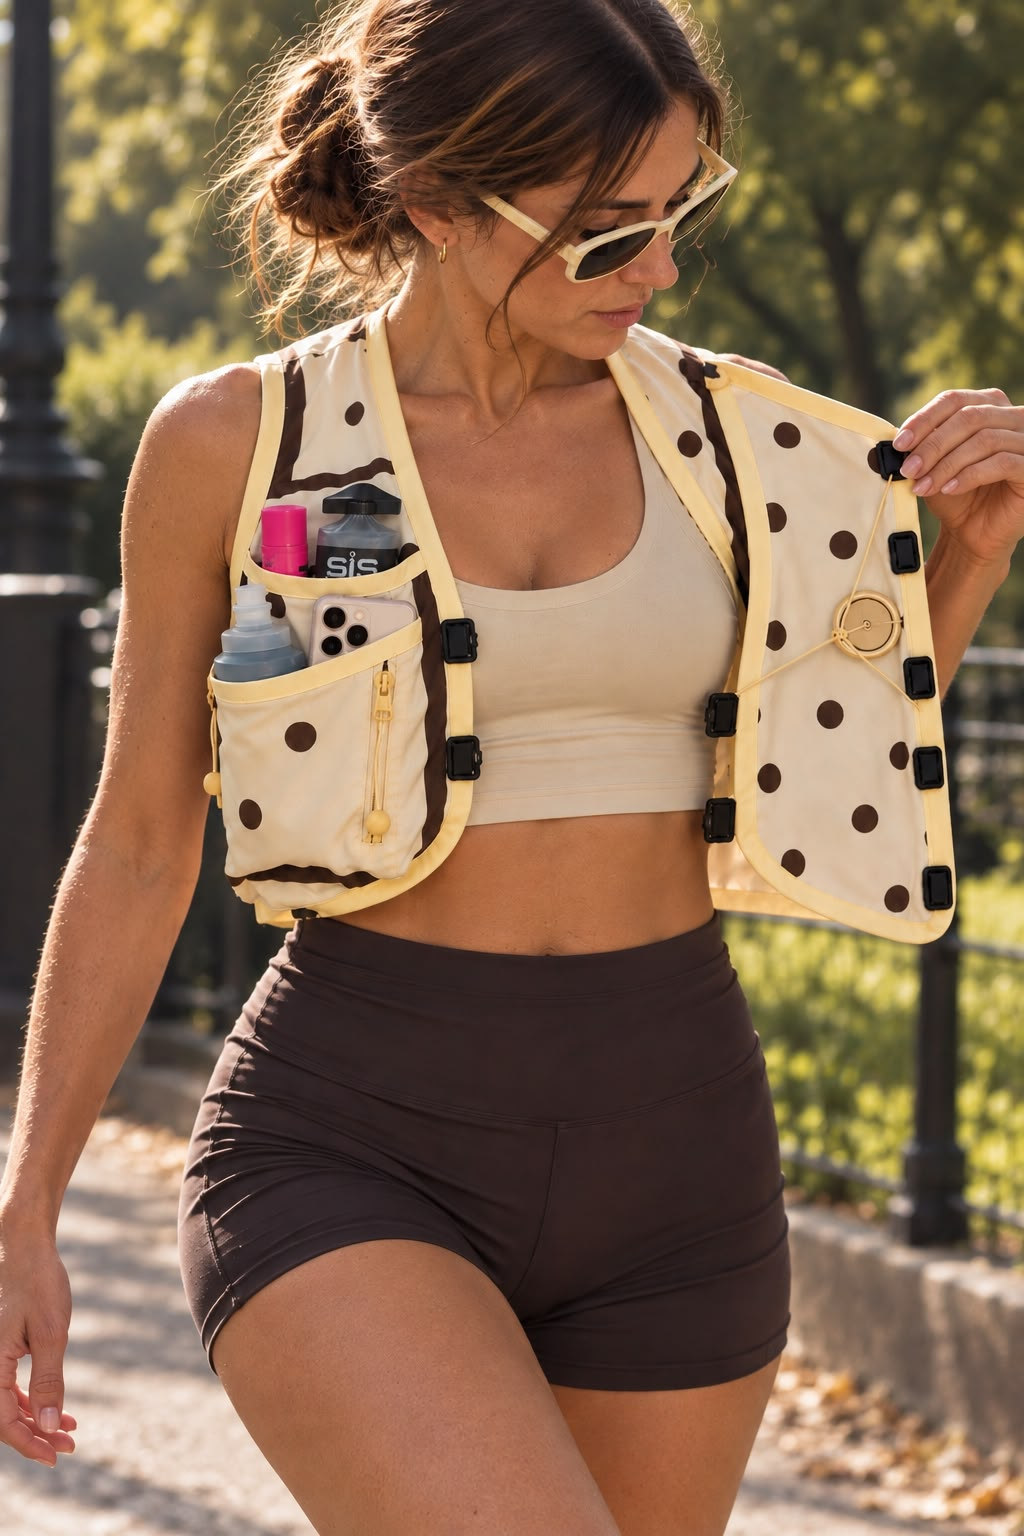
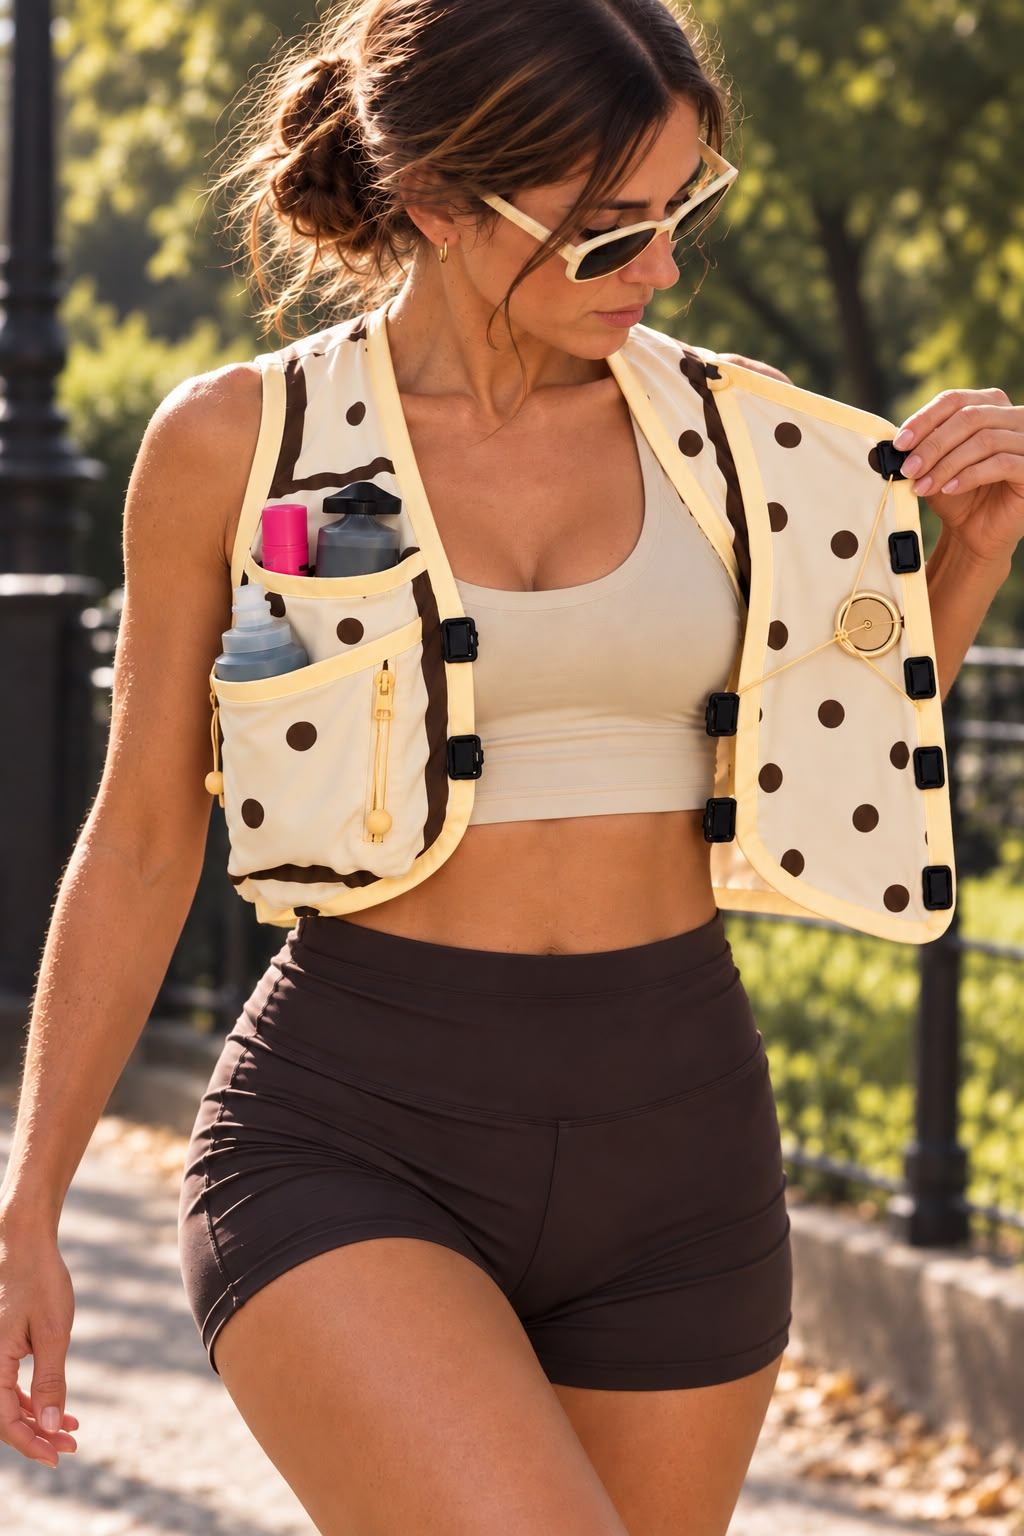
New biscotto photo set and mobile bug fixes
- Biscotto now shows 6 retouched photos: running, flat front, front held
  open, flat back, back worn, cafe. Flat studio shots are shown whole on a
  matching panel; the back shot keeps its callouts in frame.
- Fix the undo toast stretching across the whole phone screen: phone
  overrides now come last in the stylesheet so base rules can't win.
- Lock the vote to one screen via a class set by the script (no :has()),
  push the intro below the largest viewport so nothing peeks under the
  iOS floating toolbar, cap the card height on tablets.
- Clip horizontal overflow from off-screen animations; refresh scroll
  animations when the vote changes the page height.
- Don't count the card's first photo as an extra photo view.

diff --git a/src/styles/global.css b/src/styles/global.css
@@ -45,6 +45,8 @@ html[data-accent='cobalt'] {
 html {
   background: var(--tint);
   -webkit-text-size-adjust: 100%;
+  overflow-x: hidden;
+  overflow-x: clip;
 }
 
 body {
@@ -57,6 +59,7 @@ body {
   line-height: 1.45;
   -webkit-font-smoothing: antialiased;
   overflow-x: hidden;
+  overflow-x: clip;
 }
 
 img,
@@ -256,73 +259,6 @@ a {
   color: var(--ink-3);
 }
 
-/* Phones: the vote is exactly one screen. The card grows or shrinks to fit, the buttons sit
-   just above the browser's bottom bar, and the rest of the hero starts below the fold. */
-@media (max-width: 899px) {
-  .hero {
-    display: block;
-    padding-top: 0;
-  }
-  .hero__first {
-    display: flex;
-    flex-direction: column;
-  }
-  .hero__first:has([data-stage='deck']:not([hidden])) {
-    height: calc(100vh - var(--header-h));
-    height: calc(100svh - var(--header-h));
-    min-height: 480px;
-    padding: 4px 0 14px;
-  }
-  .hero__copy {
-    flex: 0 0 auto;
-    margin-bottom: 12px;
-  }
-  .kicker {
-    margin-bottom: 6px;
-  }
-  .hero__title {
-    max-width: none;
-    font-size: clamp(28px, 7.9vw, 46px);
-  }
-  .vote {
-    flex: 1 1 auto;
-    display: flex;
-    flex-direction: column;
-    min-height: 0;
-  }
-  .stage--deck {
-    flex: 1 1 auto;
-    display: flex;
-    flex-direction: column;
-    min-height: 0;
-  }
-  .deck {
-    flex: 1 1 auto;
-    min-height: 250px;
-  }
-  .deck::before {
-    display: none;
-  }
-  .deck-actions {
-    margin-top: 12px;
-  }
-  .deck-actions .btn {
-    height: 52px;
-  }
-  .hero__more {
-    margin-top: 40px;
-  }
-  .fav-pill {
-    height: 36px;
-    min-width: 56px;
-    padding: 0 12px;
-  }
-  .toast {
-    top: calc(var(--header-h) + 8px);
-    bottom: auto;
-  }
-}
-
 @media (min-width: 900px) {
   .hero__first {
     display: contents;
@@ -462,8 +398,14 @@ a {
 .card__img--lifestyle {
   object-position: 50% 40%;
 }
+/* The back shot has callouts on its right edge: keep them in frame on narrow cards. */
 .card__img--back {
-  object-position: 50% 55%;
+  object-position: 85% 50%;
+}
+/* Flat studio shots are shown whole, on a panel that matches their backdrop. */
+.card__img--flatfront,
+.card__img--flatback {
+  object-fit: contain;
 }
 .vest-sketch {
   width: 84%;
@@ -1574,6 +1516,87 @@ a {
   font-size: 22px;
   letter-spacing: -0.02em;
 }
+
+@media (min-width: 600px) and (max-width: 899px) {
+  .hero__copy {
+    text-align: center;
+  }
+}
+
+/* Phone overrides come last so they always win over the base rules above. */
+/* Phones: the vote is exactly one screen. The card grows or shrinks to fit, the buttons sit
+   just above the browser's bottom bar, and the rest of the hero starts below the fold. */
+@media (max-width: 899px) {
+  .hero {
+    display: block;
+    padding-top: 0;
+  }
+  .hero__first {
+    display: flex;
+    flex-direction: column;
+  }
+  .hero__first.is-voting {
+    height: calc(100vh - var(--header-h));
+    height: calc(100svh - var(--header-h));
+    min-height: 480px;
+    padding: 4px 0 14px;
+  }
+  .hero__copy {
+    flex: 0 0 auto;
+    margin-bottom: 12px;
+  }
+  .kicker {
+    margin-bottom: 6px;
+  }
+  .hero__title {
+    max-width: none;
+    font-size: clamp(28px, 7.9vw, 46px);
+  }
+  .vote {
+    flex: 1 1 auto;
+    display: flex;
+    flex-direction: column;
+    min-height: 0;
+  }
+  .stage--deck {
+    flex: 1 1 auto;
+    display: flex;
+    flex-direction: column;
+    justify-content: center;
+    min-height: 0;
+  }
+  .deck {
+    flex: 1 1 auto;
+    min-height: 250px;
+    max-height: 640px; /* tablets: don't stretch the card into a tall strip */
+  }
+  .deck::before {
+    display: none;
+  }
+  .deck-actions {
+    margin-top: 12px;
+  }
+  .deck-actions .btn {
+    height: 52px;
+  }
+  /* iOS Safari's floating toolbar shows the page underneath it: start the next block below
+     the largest viewport so nothing peeks in under the first screen. */
+  .hero__more {
+    margin-top: 40px;
+    margin-top: calc(100lvh - 100svh + 40px);
+  }
+  .fav-pill {
+    height: 36px;
+    min-width: 56px;
+    padding: 0 12px;
+  }
+  .toast {
+    top: calc(var(--header-h) + 8px);
+    bottom: auto;
+    max-width: calc(100vw - 32px);
+  }
+}
+
 
 @media (prefers-reduced-motion: reduce) {
   *,

diff --git a/src/data/designs.ts b/src/data/designs.ts
@@ -1,6 +1,8 @@
 import type { ImageMetadata } from 'astro';
 import biscottoOnbody from '../assets/designs/biscotto/onbody.jpg';
+import biscottoFlatFront from '../assets/designs/biscotto/flatfront.jpg';
 import biscottoDetail from '../assets/designs/biscotto/detail.jpg';
+import biscottoFlatBack from '../assets/designs/biscotto/flatback.jpg';
 import biscottoBack from '../assets/designs/biscotto/back.jpg';
 import biscottoLifestyle from '../assets/designs/biscotto/lifestyle.jpg';
 
@@ -18,9 +20,9 @@ export interface Sketch {
 export interface DesignImage {
   src: ImageMetadata;
   alt: string;
-  // Every design shows the same 4 shots in the same order, so no design wins on photography:
-  // on-body running front, open-front detail, back, lifestyle.
-  shot: 'onbody' | 'detail' | 'back' | 'lifestyle';
+  // Every design shows the same 6 shots in the same order, so no design wins on photography:
+  // running (front), flat front, front held open, flat back, back worn, café.
+  shot: 'onbody' | 'flatfront' | 'detail' | 'flatback' | 'back' | 'lifestyle';
 }
 
 export interface Design {
@@ -49,11 +51,13 @@ export const designs: Design[] = [
     swatch: '#EDD7BF',
     heart: '#4C2C1F',
     tint: '#F1E9DE',
-    panel: '#E4D6C4',
+    panel: '#D0BEAE', // matches the studio backdrop of the flat shots
     images: [
       { src: biscottoOnbody, alt: 'A runner in the park wearing the biscotto vest, pockets filled', shot: 'onbody' },
+      { src: biscottoFlatFront, alt: 'The biscotto vest laid flat, front view, pockets filled', shot: 'flatfront' },
       { src: biscottoDetail, alt: 'The biscotto vest held open to show the bungee lacing inside', shot: 'detail' },
-      { src: biscottoBack, alt: 'The back of the biscotto vest with the zipped pocket open', shot: 'back' },
+      { src: biscottoFlatBack, alt: 'The biscotto vest laid flat, back view with the zipped pocket', shot: 'flatback' },
+      { src: biscottoBack, alt: 'The back of the biscotto vest worn, with the zipped pocket open', shot: 'back' },
       { src: biscottoLifestyle, alt: 'The biscotto vest worn at a café table', shot: 'lifestyle' },
     ],
   },

diff --git a/src/scripts/app.ts b/src/scripts/app.ts
@@ -301,7 +301,8 @@ class VoteFlow {
     q('[data-shot-label]', card).textContent = String(next + 1);
     const slug = card.dataset.slug as string;
     const key = `${slug}:${next}`;
-    if (!this.shotsSeen.has(key)) {
+    // Photo 0 is the card face, already counted by card_view.
+    if (next > 0 && !this.shotsSeen.has(key)) {
       this.shotsSeen.add(key);
       track('image_view', { design: slug, shot: next });
     }
@@ -590,6 +591,9 @@ class VoteFlow {
 
   private showStage(name: string): void {
     for (const s of qa('[data-stage]', this.root)) s.hidden = s.dataset.stage !== name;
+    // Only the deck is locked to one screen on phones; the other stages size to their content.
+    document.querySelector('[data-first-screen]')?.classList.toggle('is-voting', name === 'deck');
+    window.dispatchEvent(new Event('cori:layout'));
     const stage = q(`[data-stage="${name}"]`, this.root);
     if (!reduceMotion()) gsap.from(stage, { y: 18, opacity: 0, duration: 0.45, ease: 'power3.out', clearProps: 'all' });
     stage.querySelector<HTMLElement>('.stage__title')?.focus({ preventScroll: true });

diff --git a/src/scripts/motion.ts b/src/scripts/motion.ts
@@ -145,6 +145,9 @@ function pack(): void {
 }
 
 export function initMotion(): void {
+  // Don't recalculate on every mobile address-bar resize; do recalculate when the vote changes the page height.
+  ScrollTrigger.config({ ignoreMobileResize: true });
+  addEventListener('cori:layout', () => requestAnimationFrame(() => ScrollTrigger.refresh()));
   route();
   document.querySelectorAll<SVGSVGElement>('[data-scene="deck"]').forEach(sceneDeck);
   document.querySelectorAll<SVGSVGElement>('[data-scene="bars"]').forEach(sceneBars);

diff --git a/src/config.ts b/src/config.ts
@@ -26,7 +26,7 @@ export const UK_SIZES_OUTSIDE = ['UK 4 or smaller', 'UK 22', 'UK 24', 'UK 26', '
 
 export const CATALOG = {
   // Bump whenever designs are added, removed or re-photographed; it tags every event.
-  version: '2026-10-14.2',
+  version: '2026-10-14.3',
   // Sketches are stand-ins for designs that don't exist yet. Turn this off before sharing the vote,
   // or pass ?preview=1 to see them anyway.
   showSketches: true,

diff --git a/README.md b/README.md
@@ -30,7 +30,7 @@ npm run build      # static site in dist/
 
 ## Adding a real design
 
-1. Put 4 photos in `src/assets/designs/<slug>/`, in this order: `onbody` (running, front), `detail` (front held open), `back`, `lifestyle` (café). Match the biscotto's angles and light, at least 2,000 px on the long edge.
+1. Put 6 photos in `src/assets/designs/<slug>/`, in this order: `onbody` (running, front), `flatfront` (studio, flat), `detail` (front held open), `flatback` (studio, flat), `back` (worn, pocket open), `lifestyle` (café). Match the biscotto's angles, backdrop and light, at least 2,000 px on the long edge.
 2. In `designs.ts`, import them, set `status: 'live'`, remove `sketch`, and set `swatch`/`tint`/`panel`.
 3. Bump `CATALOG.version` in `config.ts`, so data from the old line-up stays separate.
 
